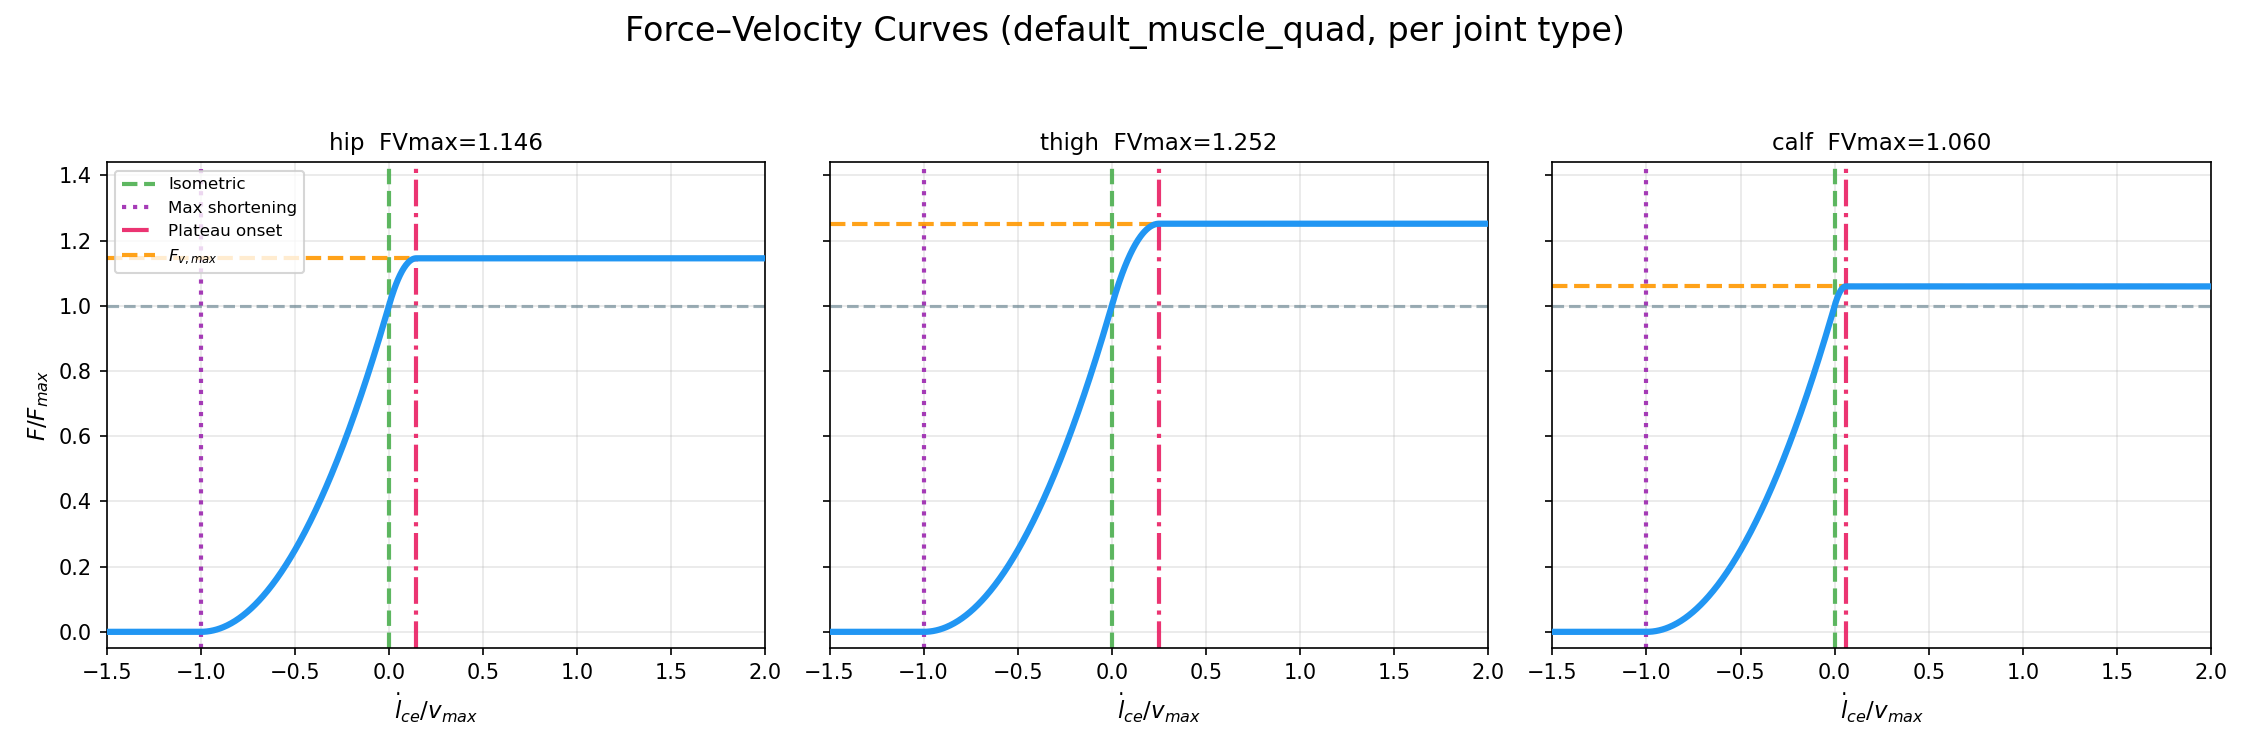
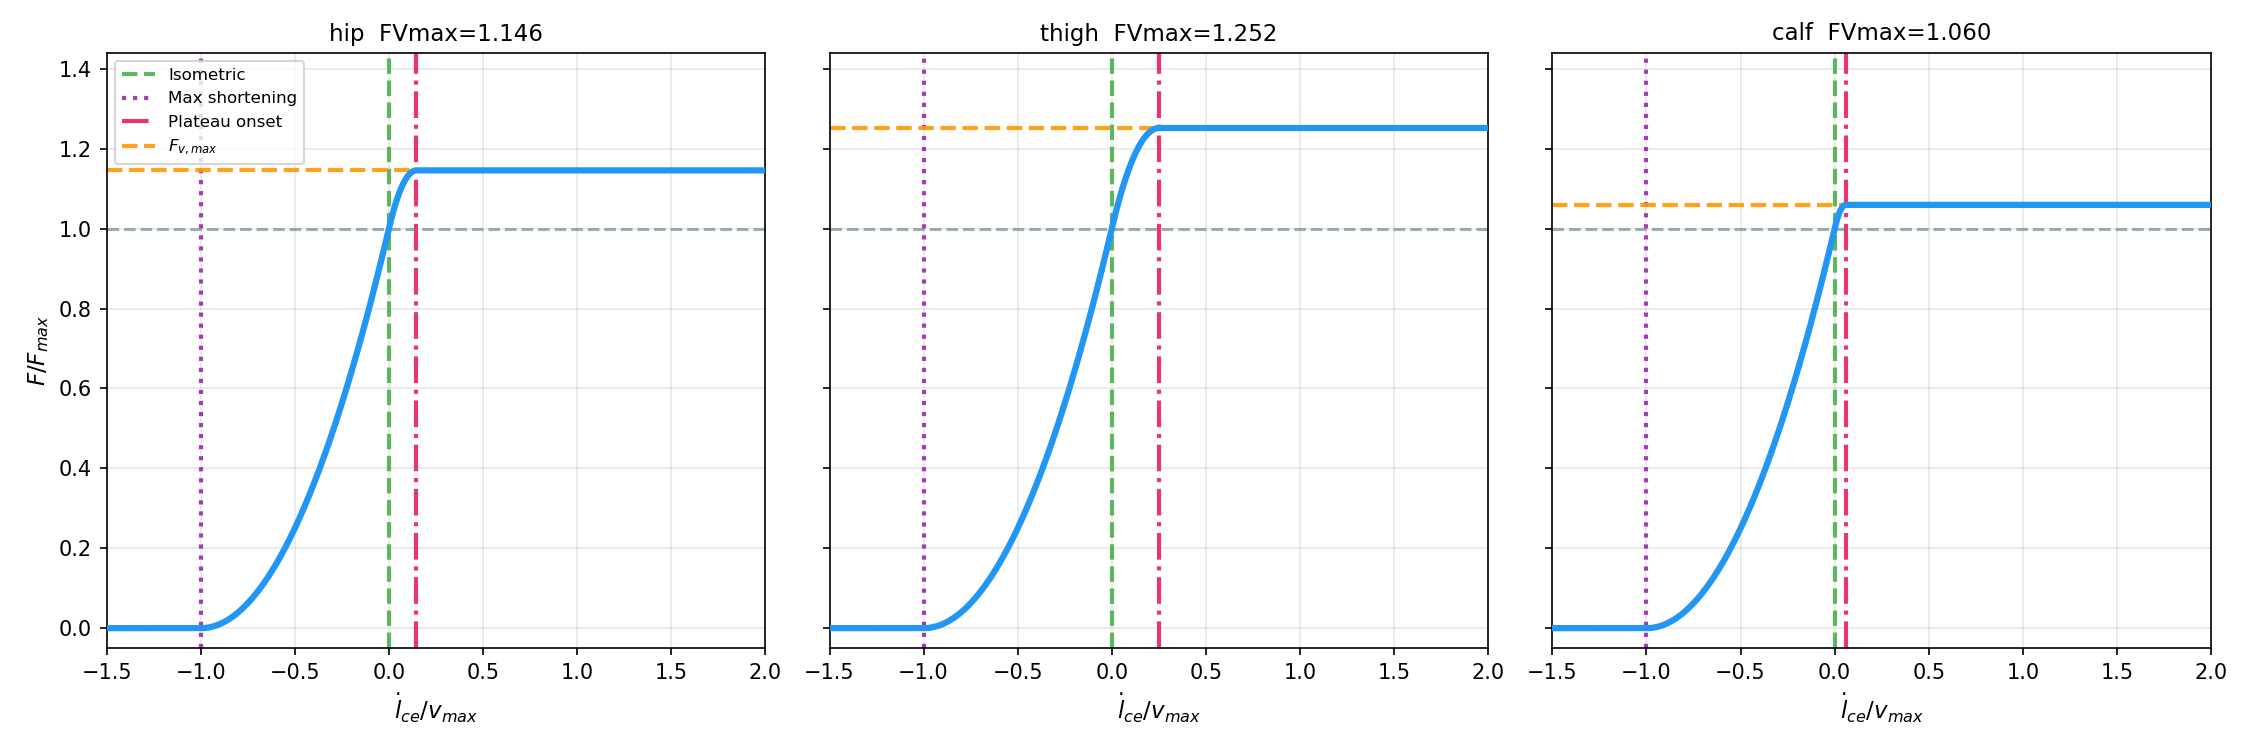
figures for workshop

diff --git a/analysis/unit_tests/plot_hill_curves.py b/analysis/unit_tests/plot_hill_curves.py
@@ -1,0 +1,199 @@
+"""
+Plot both Hill-muscle characteristic curves in one figure: force-length on the top
+row, force-velocity on the bottom, one column per joint type (hip, thigh, calf).
+Parameters come from tasks.yaml (default_muscle_quad block) — values are identical
+across the 4 legs, so one set covers all of them.
+
+Top row    X: lce / l_opt          (fiber length normalized by optimal length)
+Bottom row X: lce_dot / vmax       (normalized fiber velocity)
+Both rows  Y: F / F_max            (force normalized by peak isometric force)
+
+This is the combined version of plot_force_length.py and plot_force_velocity.py,
+which remain as the standalone single-figure scripts. The muscle.h helpers are
+duplicated here because those two run their plotting at module level and so can't
+be imported.
+
+Usage:
+  python3 plot_hill_curves.py        ->  hill_curves.png beside this file
+"""
+
+import os
+
+import numpy as np
+import matplotlib
+matplotlib.use("Agg")
+import matplotlib.pyplot as plt
+import yaml
+
+JOINT_NAMES = ["Hip", "Thigh", "Calf"]   # column order; tagged (a)/(b)/(c) in the figure
+SUBFIG_TAGS = ["(a)", "(b)", "(c)"]
+
+# The primary curve of each row — force-length Total and the force-velocity
+# curve — shares one style so the two rows read as the same kind of object.
+C_CURVE  = "#64B5F6"
+LW_CURVE = 3
+
+# Dashed annotation lines share one weight across both rows.
+LW_DASH = 1.5
+
+# One legend size for both rows.
+LEGEND_FS = 10
+
+FIG_W = 15.0   # inches of figure width
+FIG_H = 9.0    # inches of figure height
+
+# Left margin, in inches, holding the leftmost panel's ylabel and tick labels.
+AXES_LEFT_IN = 0.75
+
+
+# ---------------------------------------------------------------------------
+# Reimplementation of the muscle.h helpers
+# ---------------------------------------------------------------------------
+def active_force_length(length, A, mid, B):
+    left  = 0.5 * (A + mid)
+    right = 0.5 * (mid + B)
+    if length <= A or length >= B:
+        return 0.0
+    if length < left:
+        temp = (length - A) / (left - A)
+        return 0.5 * temp * temp
+    elif length < mid:
+        temp = (mid - length) / (mid - left)
+        return 1.0 - 0.5 * temp * temp
+    elif length < right:
+        temp = (length - mid) / (right - mid)
+        return 1.0 - 0.5 * temp * temp
+    else:
+        temp = (B - length) / (B - right)
+        return 0.5 * temp * temp
+
+
+def active_fl(lce, lmin, lmax):
+    return (active_force_length(lce, lmin, 1.0, lmax)
+            + 0.15 * active_force_length(lce, lmin, 0.5 * (lmin + 0.95), 0.95))
+
+
+def passive_force_length(lce, fpmax, b):
+    if lce <= 1.0:
+        return 0.0
+    elif lce <= b:
+        temp = (lce - 1.0) / (b - 1.0)
+        return 0.25 * fpmax * temp ** 3
+    else:
+        temp = (lce - b) / (b - 1.0)
+        return 0.25 * fpmax * (1.0 + 3.0 * temp)
+
+
+def force_vel(eff_vel, c, FVmax):
+    if eff_vel < -1.0:
+        return 0.0
+    elif eff_vel <= 0.0:
+        return (eff_vel + 1.0) ** 2
+    elif eff_vel <= c:
+        return FVmax - (c - eff_vel) ** 2 / c
+    else:
+        return FVmax
+
+
+# ---------------------------------------------------------------------------
+# Per-row plotting
+# ---------------------------------------------------------------------------
+def plot_force_length_row(axes, lce_min, lce_max, fpmax):
+    lce = np.linspace(0.5, 1.4, 500)
+
+    for j, ax in enumerate(axes):
+        lmin, lmax, fpm = lce_min[j], lce_max[j], fpmax[j]
+        b_passive = 0.5 * (lmax + 1.0)   # matches muscle.h
+
+        fl_active  = np.array([active_fl(l, lmin, lmax) for l in lce])
+        fl_passive = np.array([passive_force_length(l, fpm, b_passive) for l in lce])
+
+        # Total sits underneath so the two dashed components stay visible
+        # where they coincide with it (passive is zero below l_opt).
+        ax.plot(lce, fl_active,              label="Active",  color="#E8890C", linewidth=LW_DASH, linestyle="--", zorder=3)
+        ax.plot(lce, fl_passive,             label="Passive", color="#00875a", linewidth=LW_DASH, linestyle="--", zorder=3)
+        ax.plot(lce, fl_active + fl_passive, label="Total",   color=C_CURVE, linewidth=LW_CURVE, zorder=2)
+
+        # Optimal fiber length only; the lce_min/lce_max rules are left off.
+        ax.axvline(1.0, color="gray", linewidth=0.8, linestyle="-", alpha=0.6)
+
+        ax.grid(True, alpha=0.3)
+        ax.set_xlabel("$l_{ce} / l_{opt}$", fontsize=11)
+
+    axes[0].set_ylabel("$F / F_{max}$", fontsize=11)
+    axes[0].legend(fontsize=LEGEND_FS, loc="upper right")
+    axes[0].set_xlim(0.6, 1.4)
+    axes[0].set_ylim(-0.05, 2.4)
+
+
+def plot_force_velocity_row(axes, FVmax_list):
+    eff_vel = np.linspace(-1.5, 2.0, 1000)
+
+    for j, ax in enumerate(axes):
+        FVmax = FVmax_list[j]
+        c = FVmax - 1.0
+
+        fv = np.array([force_vel(v, c, FVmax) for v in eff_vel])
+        ax.plot(eff_vel, fv, color=C_CURVE, linewidth=LW_CURVE, zorder=3)
+
+        # Isometric and unit-force references, both drawn like the l_opt rule
+        # on the force-length row.
+        ax.axvline(0.0, color="gray", linewidth=0.8, linestyle="-", alpha=0.6)
+        ax.axhline(1.0, color="gray", linewidth=0.8, linestyle="-", alpha=0.6)
+        ax.axhline(FVmax, color="#E53935", linewidth=LW_DASH, linestyle="--", label="$F_{v,max}$")
+
+        ax.grid(True, alpha=0.3)
+        ax.set_xlabel("$\\dot{l}_{ce} / v_{max}$", fontsize=11)
+
+    axes[0].set_ylabel("$F / F_{max}$", fontsize=11)
+    axes[0].legend(fontsize=LEGEND_FS, loc="upper right")
+    axes[0].set_xlim(-1.5, 2.0)
+    axes[0].set_ylim(-0.05, max(FVmax_list) * 1.15)
+
+
+def main():
+    yaml_path = os.path.join(os.path.dirname(__file__),
+                             "../../muscle_mppi/utils/tasks.yaml")
+    with open(yaml_path) as f:
+        cfg = yaml.safe_load(f)
+    muscle = cfg["default_muscle_quad"]
+
+    fig, axes = plt.subplots(2, 3, figsize=(FIG_W, FIG_H))
+    # Rows share a y-scale within themselves but not with each other, and each
+    # row has its own x quantity, so sharing is set up per row rather than
+    # through subplots(sharex=..., sharey=...).
+    for row in axes:
+        for ax in row[1:]:
+            ax.sharex(row[0])
+            ax.sharey(row[0])
+            ax.tick_params(labelleft=False)
+
+    plot_force_length_row(axes[0], muscle["lce_min"][:3], muscle["lce_max"][:3],
+                          muscle["pFLmax"][:3])
+    plot_force_velocity_row(axes[1], muscle["FVmax"][:3])
+
+    fig.subplots_adjust(left=AXES_LEFT_IN / FIG_W, right=0.985,
+                        top=1 - 0.40 / FIG_H, bottom=0.90 / FIG_H,
+                        hspace=0.28, wspace=0.08)
+
+    # One title centred over each row, rather than repeated per panel. The joint
+    # each column belongs to is carried by the (a)/(b)/(c) tags along the bottom.
+    for row, label in zip(axes, ("Force–Length Relationship",
+                                 "Force–Velocity Relationship")):
+        left, right = row[0].get_position(), row[-1].get_position()
+        fig.text(0.5 * (left.x0 + right.x1), left.y1 + 0.10 / FIG_H, label,
+                 ha="center", va="bottom", fontsize=14)
+
+    for ax, tag in zip(axes[-1], SUBFIG_TAGS):
+        box = ax.get_position()
+        fig.text(0.5 * (box.x0 + box.x1), 0.20 / FIG_H, tag,
+                 ha="center", va="center", fontsize=13)
+
+    out_path = os.path.join(os.path.dirname(__file__), "hill_curves.png")
+    fig.savefig(out_path, dpi=150)
+    plt.close(fig)
+    print(f"Saved → {out_path}")
+
+
+if __name__ == "__main__":
+    main()

diff --git a/analysis/unit_tests/plot_force_velocity.py b/analysis/unit_tests/plot_force_velocity.py
@@ -73,8 +73,7 @@ axes[0].legend(fontsize=8, loc="upper left")
 axes[0].set_xlim(-1.5, 2.0)
 axes[0].set_ylim(-0.05, max(FVmax_list) * 1.15)
 
-fig.suptitle("Force–Velocity Curves (default_muscle_quad, per joint type)", fontsize=16)
-fig.tight_layout(rect=[0, 0, 1, 0.93])
+fig.tight_layout()
 
 out_path = os.path.join(os.path.dirname(__file__), "force_velocity.png")
 fig.savefig(out_path, dpi=150)

diff --git a/analysis/unit_tests/plot_force_length.py b/analysis/unit_tests/plot_force_length.py
@@ -105,8 +105,7 @@ half_range = 0.4
 axes[0].set_xlim(1.0 - half_range, 1.0 + half_range)
 axes[0].set_ylim(-0.05, 2.4)
 
-fig.suptitle("Force–Length Curves (default_muscle_quad, per joint type)", fontsize=16)
-fig.tight_layout(rect=[0, 0, 1, 0.93])
+fig.tight_layout()
 
 out_path = os.path.join(os.path.dirname(__file__), "force_length.png")
 fig.savefig(out_path, dpi=150)
